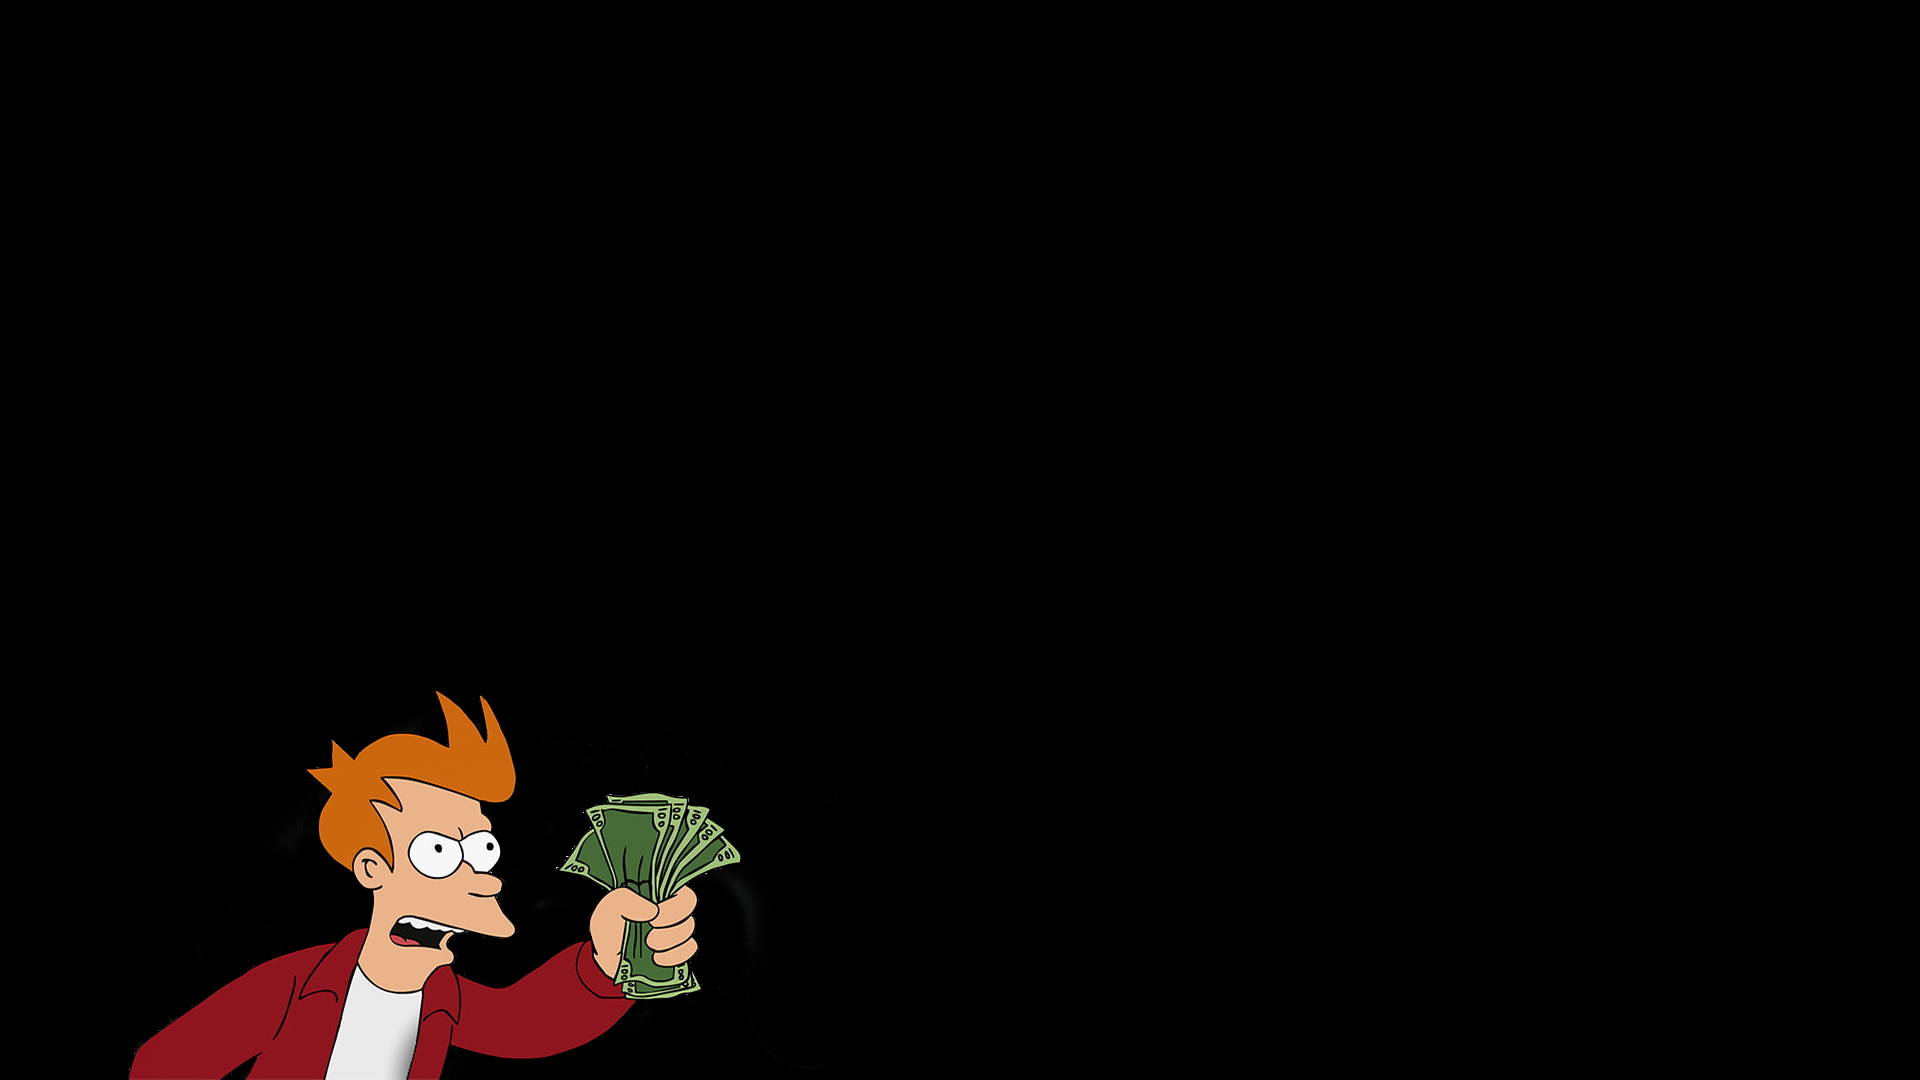
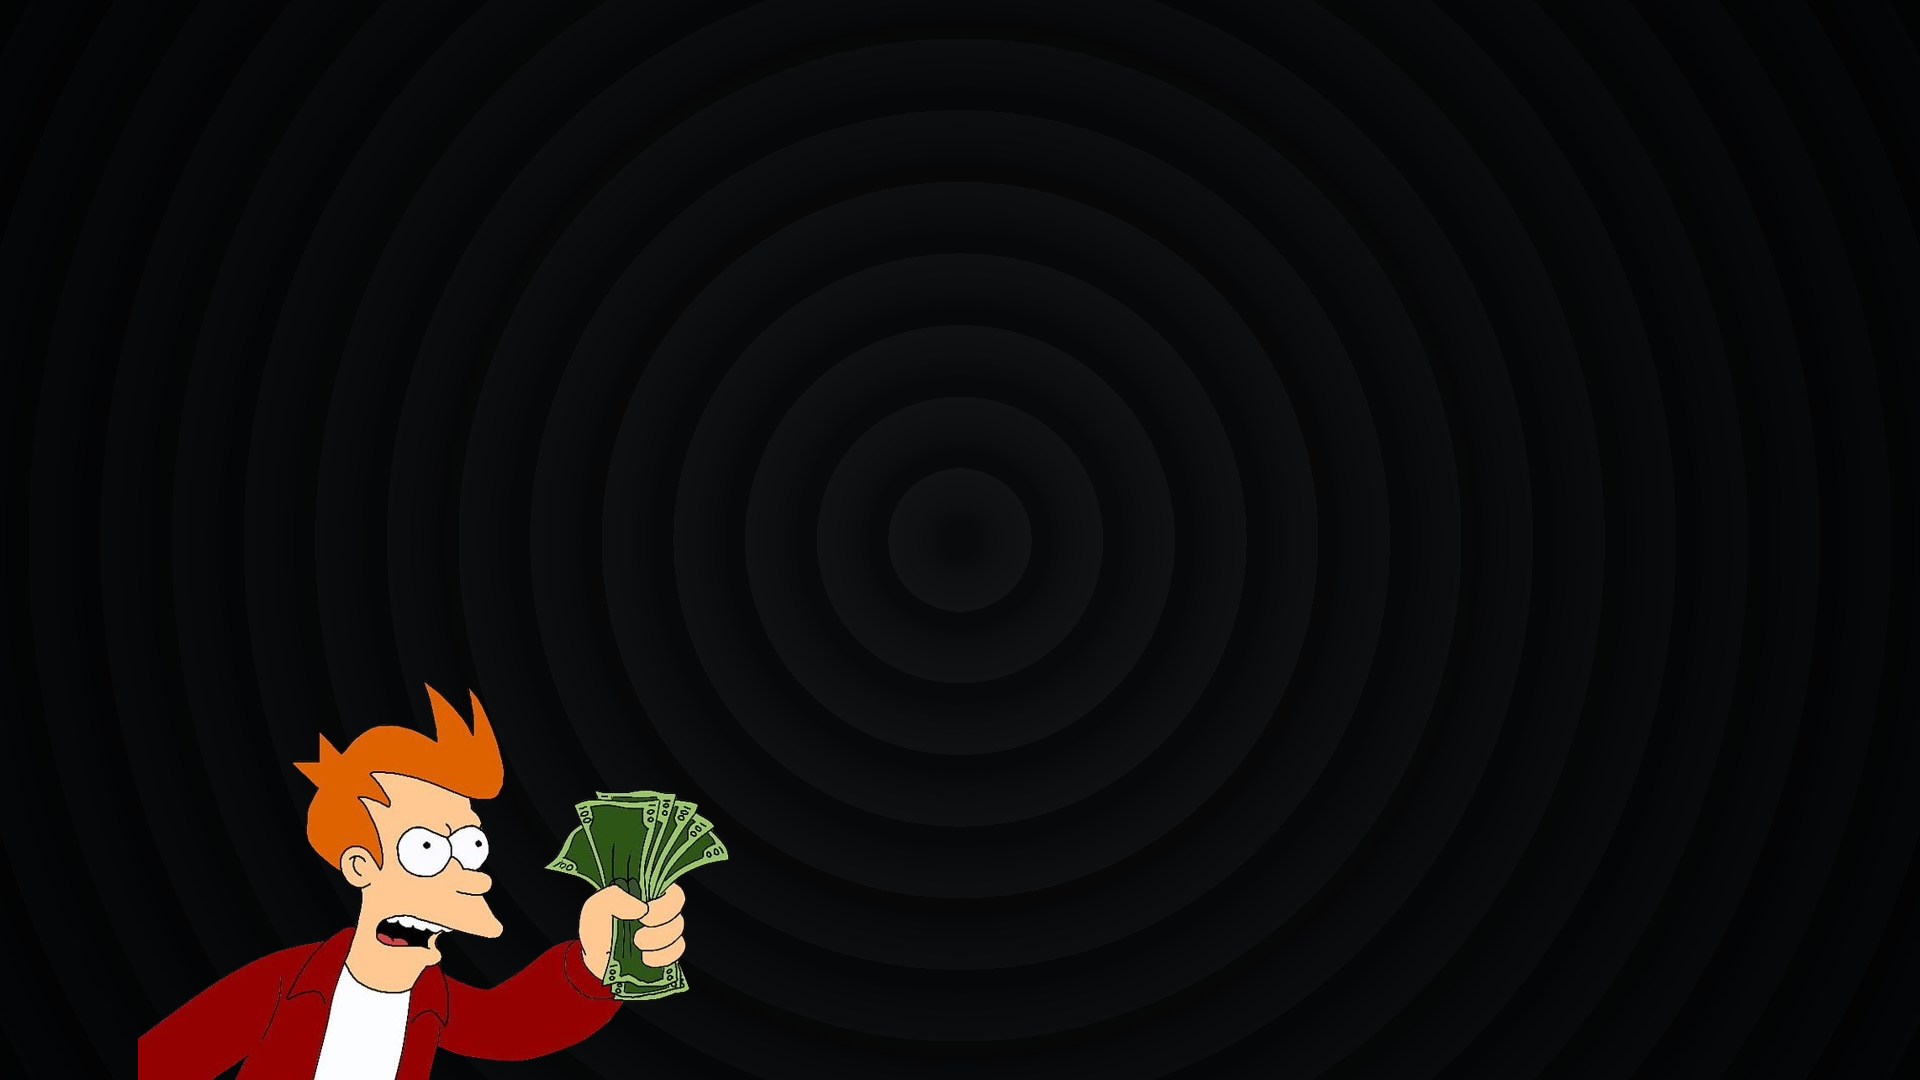
Glass morph effect added in sign in and sign up pages Circular texture added in sign in and sign up cover image On click line graph single date expenses fetched Stats page updated to implement single day expense Expense Filter worker updated to handle single day expense

Changed region(s): [[0.0625, 0.6417, 0.4062, 1.0]]

diff --git a/Frontend/src/pages/Signup.jsx b/Frontend/src/pages/Signup.jsx
@@ -46,11 +46,19 @@ function Signup() {
 			<div className="col-md-8 d-flex flex-column text-light mt-md-5 p-md-5">
 				<p className="fs-1 fw-bold">Start Your Financial Journey</p>
 				<p>Sign Up for Our Expense Tracker</p>
-				<p className="d-vary-img">Ready to take control of your finances? Sign up now to start tracking your expenses effortlessly!</p>
+				<p className="d-vary-img">
+					Ready to take control of your finances? Sign up now to start
+					tracking your expenses effortlessly!
+				</p>
 			</div>
-			<div className="col-md-4 card bg-transparent d-flex align-items-center" style={{ border: "none"}}>
-				<div className="card-body dark-box mt-md-5 p-4 d-flex flex-column flex-grow-0">
-				<h1 className="text-light my-2 mb-4 mx-auto">Create new account</h1>
+			<div
+				className="col-md-4 card bg-transparent d-flex align-items-center"
+				style={{ border: "none" }}
+			>
+				<div className="card-body dark-box mt-md-5 p-4 d-flex flex-column flex-grow-0 glass-morph">
+					<h1 className="text-light my-2 mb-4 mx-auto">
+						Create new account
+					</h1>
 					<form onSubmit={handleSubmit}>
 						<input
 							type="text"
@@ -90,15 +98,20 @@ function Signup() {
 						<input
 							type="submit"
 							className="btn"
-							style={{backgroundColor:"var(--neon-blue)"}}
+							style={{ backgroundColor: "var(--neon-green)" }}
 							value="Sign Up"
 						/>
 					</form>
-					<Link to="/signin"className="mx-auto" style={{color:"var(--base-green)",fontSize:"13px"}}>Already have an account?</Link>
-				</div>
-				<div className="text-white mx-auto mt-2">
+					<Link
+						to="/signin"
+						className="mx-auto"
+						style={{ color: "var(--base-blue)", fontSize: "13px" }}
+					>
+						Already have an account?
+					</Link>
+					<br />
 					<p
-						className=""
+						className="align-self-center text-white"
 						style={{ fontSize: "10px" }}
 					>
 						By Click on "Sign Up" you agree to <br />

diff --git a/Frontend/src/workers/expenseFilter.js b/Frontend/src/workers/expenseFilter.js
@@ -2,7 +2,7 @@ import axios from "axios";
 import expenseApi from "../ApiService/Expense";
 
 export default async function filterExpenses(filters, id) {
-	console.log(filters);
+	console.log(filters, id);
 
 	let date = new Date();
 	let month = date.getMonth() + 1;
@@ -21,12 +21,15 @@ export default async function filterExpenses(filters, id) {
 		startDate = sevenDaysPrev.toISOString().split("T")[0];
 		endDate = date.toISOString().split("T")[0];
 		flag = true;
-	} 
-	else if (filters && filters.duration == "month")
+	} else if (filters && filters.duration == "month")
 		durRes = await expenseApi.getMonthExpense(month, year, id);
 	else if (filters && filters.duration == "year")
 		durRes = await expenseApi.getYearlyExpense(year, id);
-	else if (filters && filters.duration.duration == "custom") {
+	else if (filters && filters.duration == "day") {
+		flag = true;
+		startDate = filters.day;
+		endDate = filters.day;
+	} else if (filters && filters.duration.duration == "custom") {
 		startDate = filters.duration.dateRange[0];
 		endDate = filters.duration.dateRange[1];
 		flag = true;
@@ -34,8 +37,9 @@ export default async function filterExpenses(filters, id) {
 
 	let dateRange = { startDate, endDate };
 
-	if (flag) durRes = await expenseApi.getDataRangeExpense(dateRange, id);
-
+	if (flag && id) {
+		durRes = await expenseApi.getDataRangeExpense(dateRange, id);
+	}
 
 	let res;
 	if (filters.expType == "all") res = await expenseApi.getExpenses(id);

diff --git a/Frontend/src/pages/Signin.jsx b/Frontend/src/pages/Signin.jsx
@@ -54,13 +54,16 @@ function Signin() {
 				className="col-md-4 card bg-dark d-flex align-items-center bg-transparent"
 				style={{ border: "none" }}
 			>
-				<div className="card-body dark-box mt-5 p-4 d-flex flex-column flex-grow-0">
+				<div
+					className="card-body dark-box p-4 d-flex flex-grow-0 flex-column glass-morph"
+					style={{ marginTop: "10svh" }}
+				>
 					<h1 className="text-light my-2 mb-4 mx-auto">Sign In</h1>
 					<form onSubmit={handleSubmit}>
 						<input
 							type="email"
 							placeholder="Email"
-							className="form-control bg-dark dark-input"
+							className="form-control bg-dark dark-input mt-5"
 							ref={mailRef}
 							required
 						/>
@@ -77,20 +80,19 @@ function Signin() {
 							type="submit"
 							value="Sign In"
 							className="btn mb-3 mx-auto"
-							style={{ backgroundColor: "var(--base-green)" }}
+							style={{ backgroundColor: "var(--neon-green)" }}
 						/>
 					</form>
 					<Link
 						to="/signup"
 						className="mx-auto"
-						style={{ color: "var(--neon-blue)", fontSize: "13px" }}
+						style={{ color: "var(--base-blue)", fontSize: "13px" }}
 					>
 						New User?
 					</Link>
-				</div>
-				<div className="text-white mx-auto mt-2">
+					<br />
 					<p
-						className=""
+						className="align-self-center text-white"
 						style={{ fontSize: "10px" }}
 					>
 						By Click on "Sign In" you agree to <br />

diff --git a/Frontend/src/pages/Stats.jsx b/Frontend/src/pages/Stats.jsx
@@ -80,12 +80,12 @@ function Stats() {
 	//Gets filter from Sidebar compenent, redirects the filters to expenseFilter worker to get filtered data.
 	async function getFilters(filters) {
 		if (!filters || !filters.duration || filters.duration == "all") {
-			console.log(filters);
 			setSidebarExpType(filters.expType);
 			refreshExpenseHistory();
 		}
-
+		
 		if (filters && filters.duration != "all") {
+			console.log(filters);
 			let filteredData = await filterExpenses(filters, id);
 			setExpenses(filteredData);
 		}
@@ -130,7 +130,7 @@ function Stats() {
 			</div>
 			<div className="row w-100 mx-auto justify-content-between">
 				<div className="rounded col-md-7 ms-md-3 p-md-0 color-light">
-					{expTypeData && <LineGraph data={expTypeData} />}
+					{expTypeData && <LineGraph data={expTypeData} dateData={getFilters}/>}
 				</div>
 				<div className="rounded col mx-md-3 pt-2 p-md-0">
 					{expCatData && <CategoryPieChart data={expCatData} />}

diff --git a/Frontend/src/ApiService/Expense.js b/Frontend/src/ApiService/Expense.js
@@ -1,4 +1,5 @@
 import axios from "axios";
+import { id } from "date-fns/locale";
 //Uses expense router to provide API services
 class ExpenseApi {
 	constructor() {
@@ -94,7 +95,8 @@ class ExpenseApi {
 	//Gets expenses of given range
 	async getDataRangeExpense(dateRange, userId) {
 		try {
-			if (userId.length == 24 && dateRange) {
+			console.log(dateRange.startDate, dateRange.endDate, userId);
+			if (userId && userId.length == 24 && dateRange) {
 				let res = await axios.get(
 					`${this.api}/expense/filterByDates/${userId}?startDate=${dateRange.startDate}&endDate=${dateRange.endDate}`
 				);

diff --git a/Frontend/src/App.css b/Frontend/src/App.css
@@ -200,3 +200,22 @@ option {
 		display: none;
 	}
 }
+
+.glass-morph {
+	background: linear-gradient(135deg, rgba(255, 255, 255, 0.1), rgba(255, 255, 255, 0));
+	backdrop-filter: blur(10px);
+	-webkit-backdrop-filter: blur(10px);
+	border-radius: 20px;
+	border :1px solid rgba(255, 255, 255, 0.18);
+	box-shadow: 0 8px 32px 0 rgba(0, 0, 0, 0.37);
+	align-self : start;
+	@media (width < 768px) {
+		align-self: center;
+	}
+}
+
+/* .align-per-box {
+	display: flex;
+	align-self: start;
+	margin-left: 19%;
+} */

diff --git a/Frontend/src/components/LineGraph.jsx b/Frontend/src/components/LineGraph.jsx
@@ -10,11 +10,17 @@ import {
 	Legend,
 } from "recharts";
 
-export default function LineGraph({ data }) {
+export default function LineGraph({ data, dateData }) {
 	const handleChartClick = (event) => {
 		if (event && event.activePayload && event.activePayload[0]) {
 			const { payload } = event.activePayload[0];
 			console.log(payload.date); // Logging the clicked value
+			dateData({
+				duration: "day",
+				expType: "all",
+				search: "",
+				day: payload.date,
+			});
 		}
 	};
 
